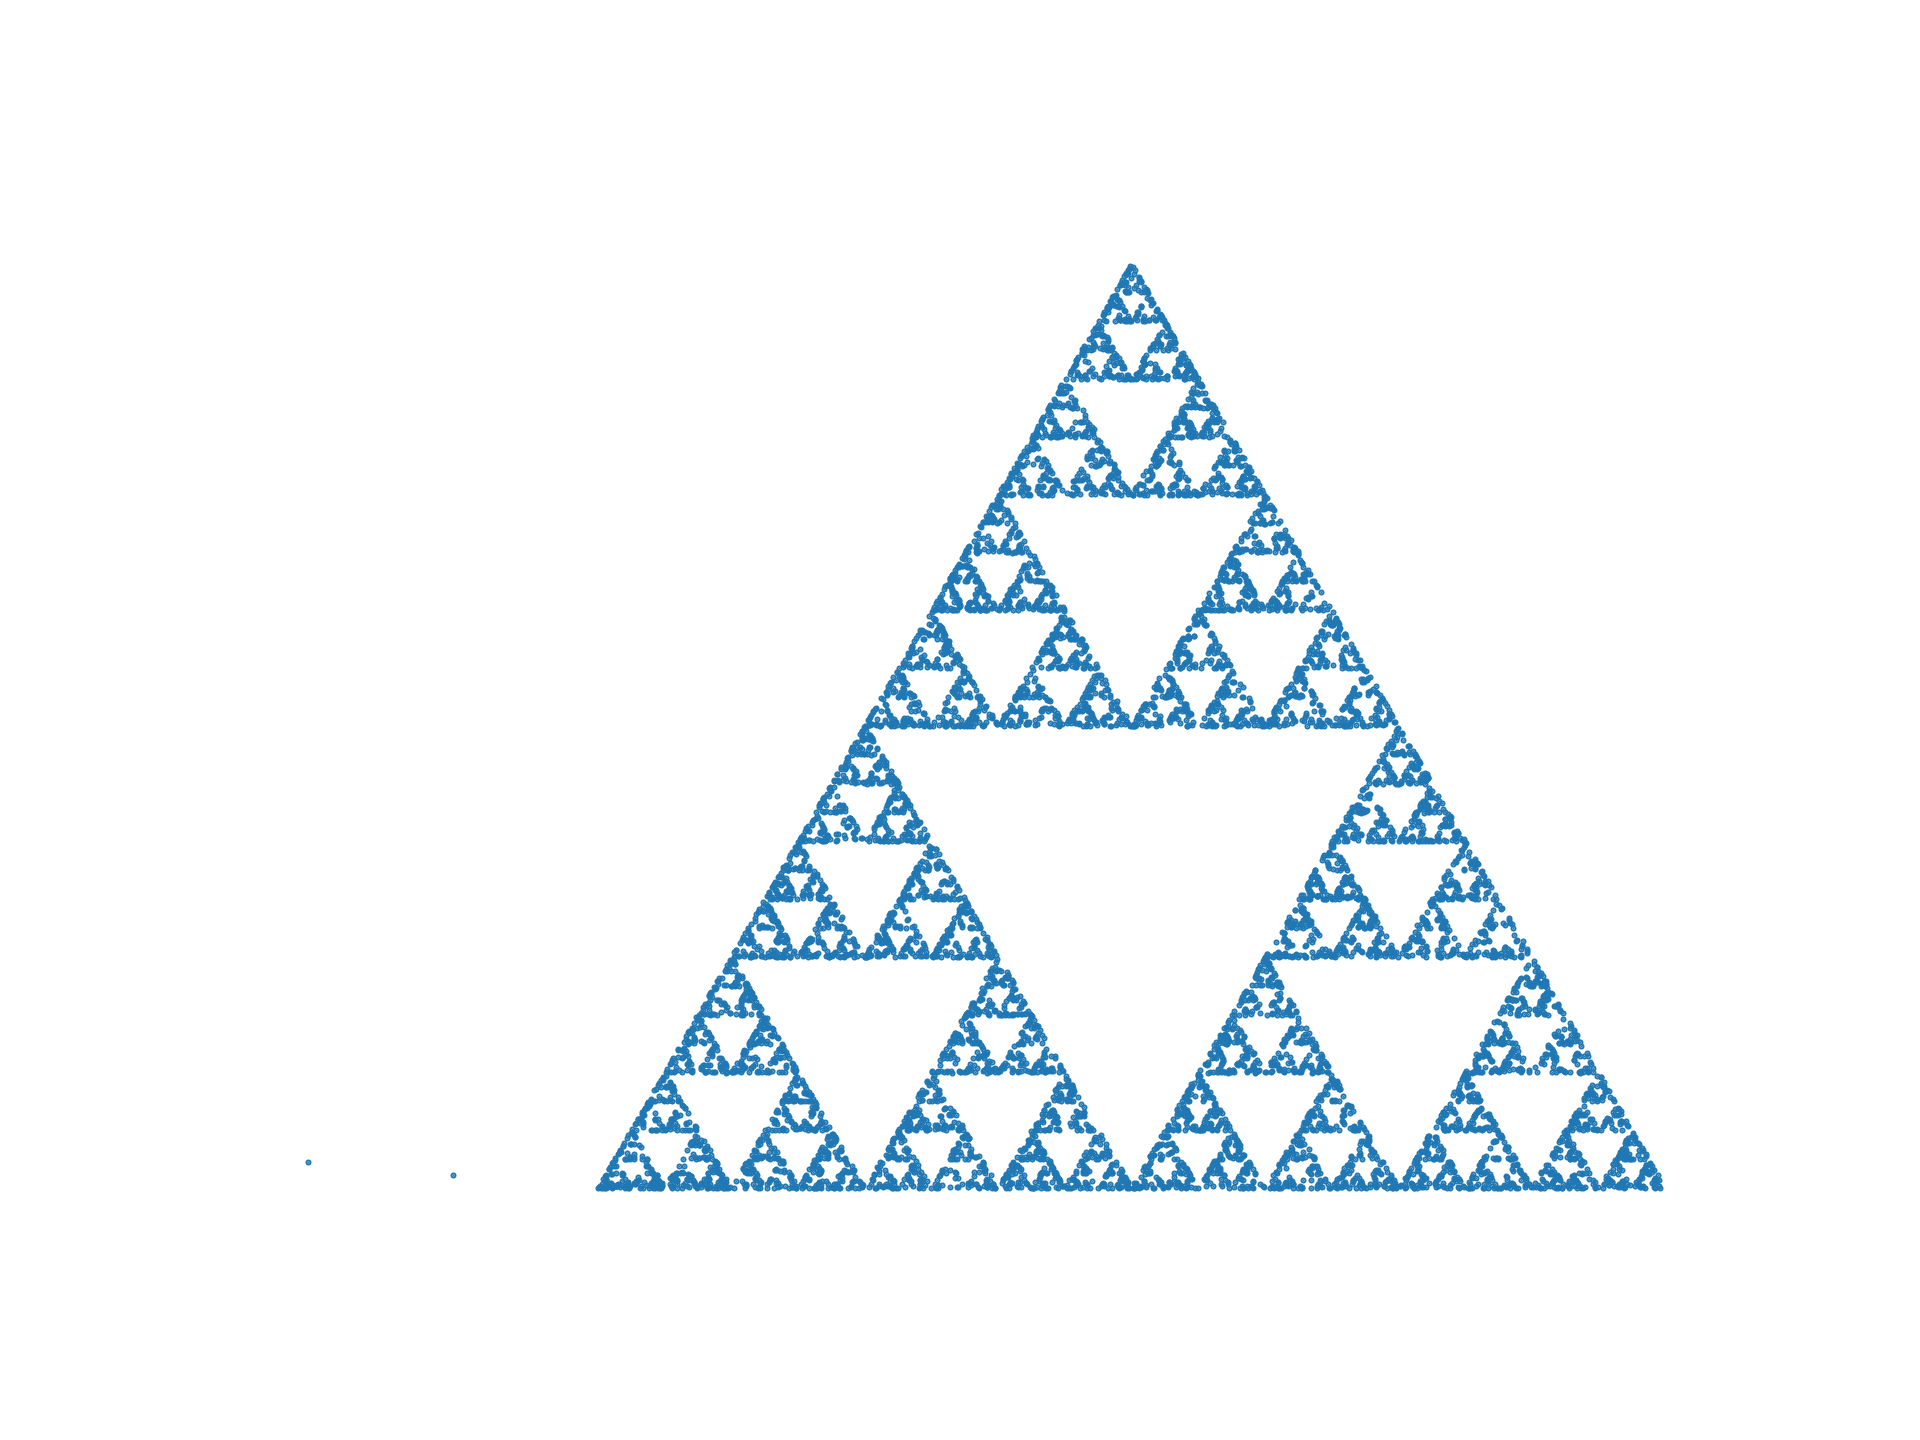
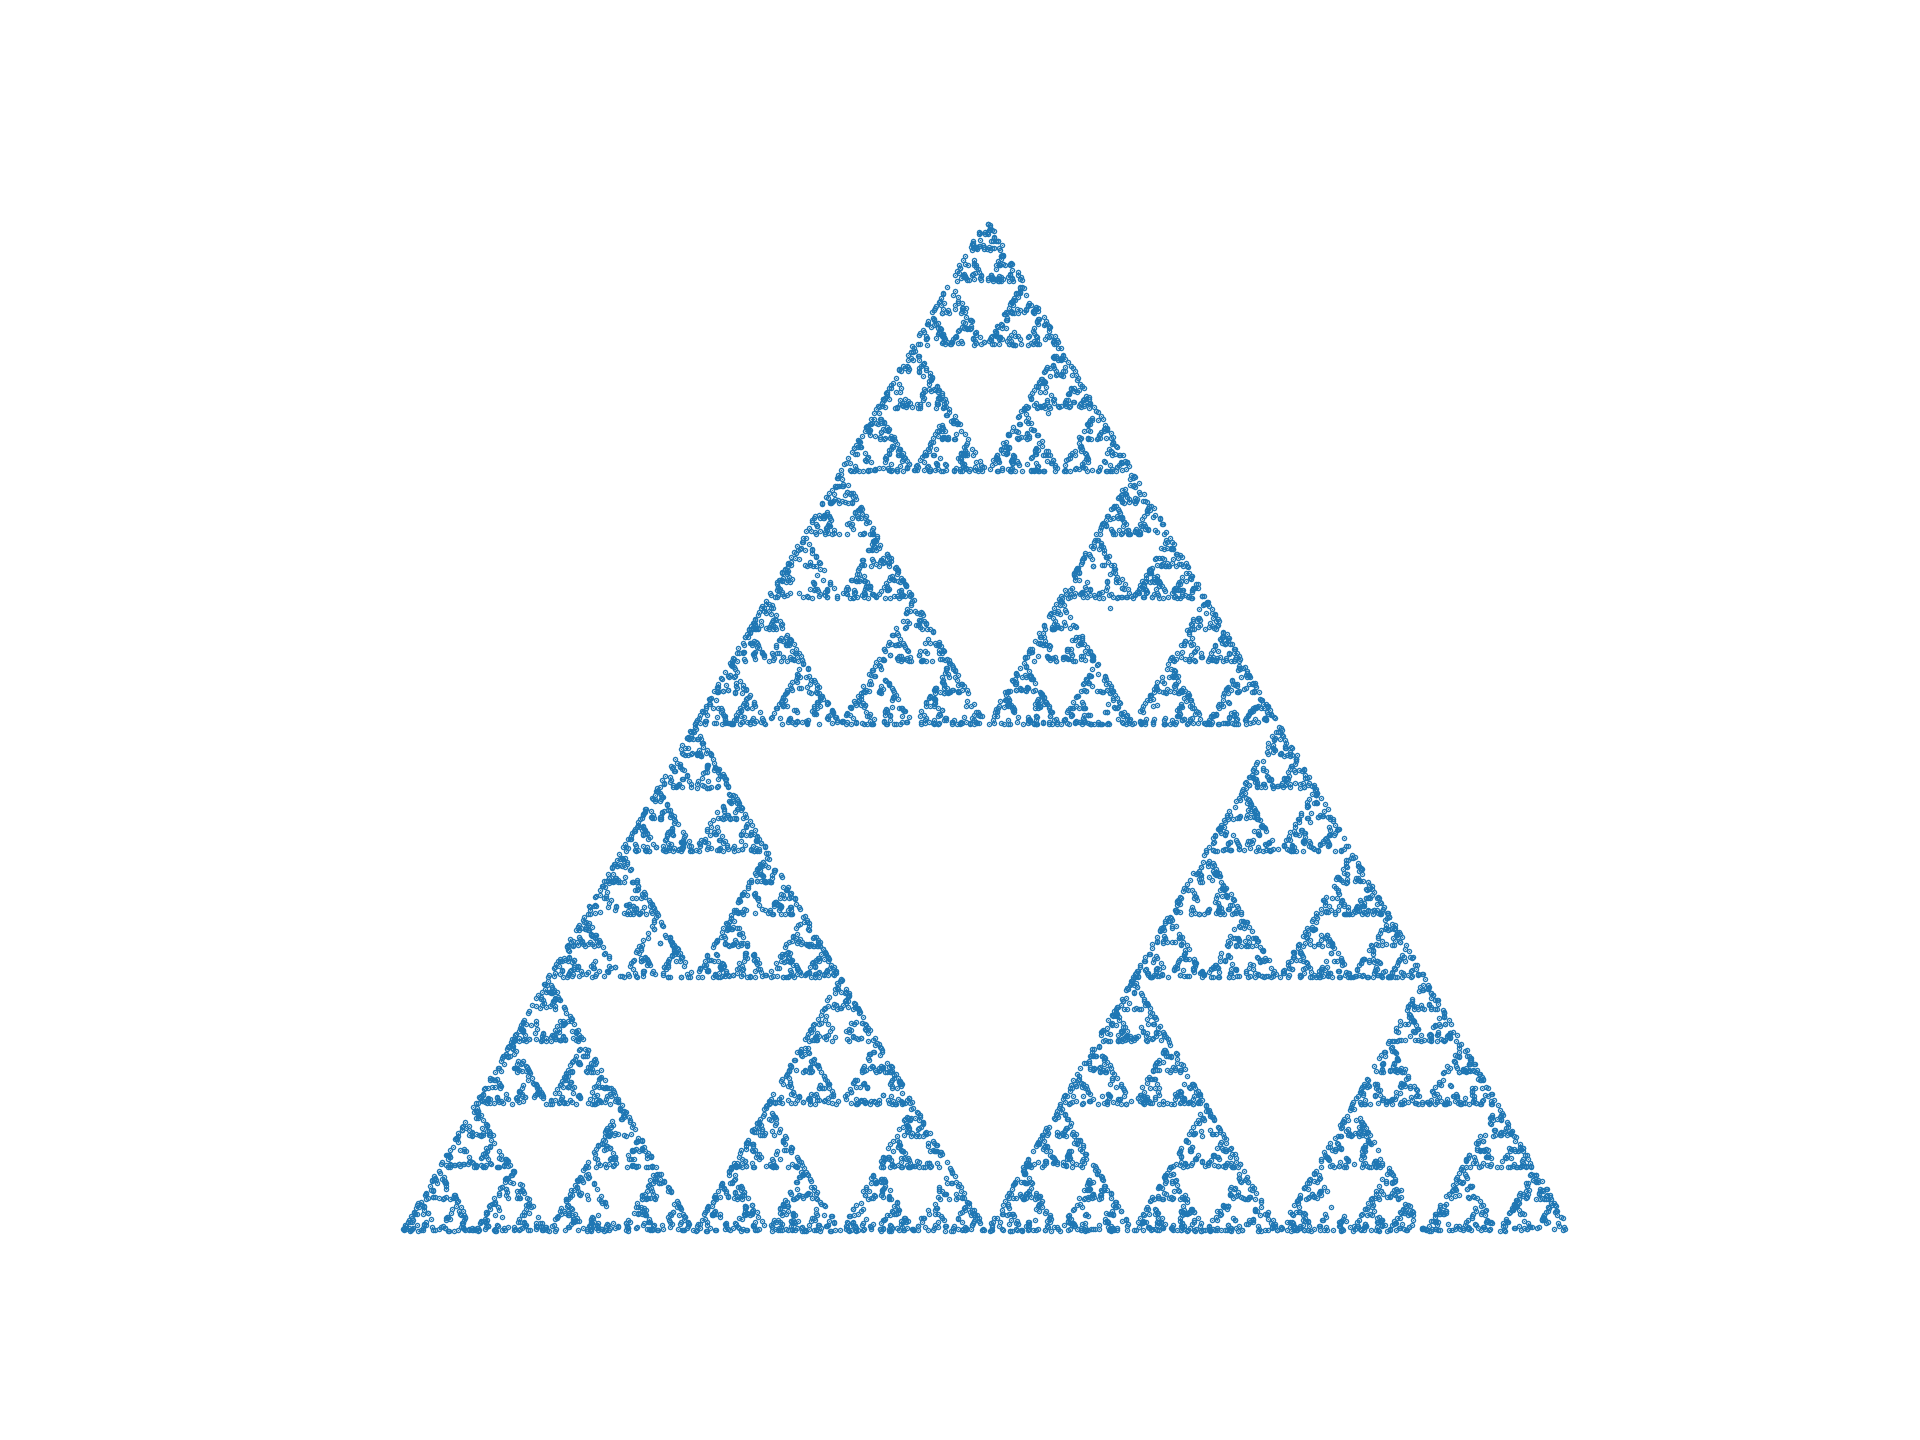
Added working code up to 3b., pluss some non-working snippets of 3c. Corrected chaos_game so it adds the generated files to correct folder.

Changed region(s): [[0.1875, 0.1562, 0.875, 0.875]]

diff --git a/chaos_game.py b/chaos_game.py
@@ -61,7 +61,7 @@ class ChaosGame:
 
 	def show(self, show =1):
 		"""Added a predefined parameter show (with 1 for true, 0 for false) to be able to use the show method in savepng."""
-		plt.scatter(*zip(*self.x), s=0.2)
+		plt.scatter(*zip(*self.x), s=0.1)
 		plt.axis('equal')
 		plt.axis('off')
 		marker='.'
@@ -78,12 +78,13 @@ class ChaosGame:
 			o = outfile + ".png"
 		self.show(0)
 		plt.savefig(o, dpi = 300)
+		plt.close()
 
 
 
 if __name__ == "__main__":
 	c = []
-	n3 =ChaosGame(2, 0.5)
+	n3 =ChaosGame(3, 0.5)
 	n4 =ChaosGame(4, 0.4)
 	n5 =ChaosGame(5, 0.5)
 	n6 =ChaosGame(6, 0.4)
@@ -106,3 +107,28 @@ if __name__ == "__main__":
 	n3.iterate(10000)
 	n3.show()
 	n3.savepng("plot_ngon")
+
+	#2i)
+	nn3 = ChaosGame(3, 0.5)
+	nn4 = ChaosGame(4, 1./3)
+	nn5 = ChaosGame(5, 1./3)
+	nn5_ = ChaosGame(5, 3./8)
+	nn6 = ChaosGame(6, 1./3)
+	
+	nn3.iterate(100000)
+	nn4.iterate(100000)
+	nn5.iterate(100000)
+	nn5_.iterate(100000)
+	nn6.iterate(100000)
+
+	import os
+	os.chdir(r'C:\Users\Eva\IN1910\project3_evasda\figures')
+
+	nn3.savepng("chaos1")
+	nn4.savepng("chaos2")
+	nn5.savepng("chaos3")
+	nn5_.savepng("chaos4")
+	nn6.savepng("chaos5")
+
+	#import os
+	#os.chdir(r'C:\Users\Eva\IN1910\project3_evasda\figures')

diff --git a/fern.py b/fern.py
@@ -1,0 +1,40 @@
+import numpy as np
+import matplotlib.pyplot as plt
+from math import sin, cos, pi
+from numpy import random, linspace
+
+class AffineTransform():
+	def __init__(self, a=0, b=0, c=0, d=0, e=0, f=0):
+		self.a = a
+		self.b = b
+		self.c = c
+		self.d = d
+		self.e = e
+		self.f = f
+
+	def __call__(self, x, y):
+		mult = np.array([[a, b], [c, d]])
+		addit = np.array([e, f])
+		xy = np.array([x, y])
+		transform = mult*xy + addit
+	
+
+
+
+if __name__ == "__main__":
+	f1 = AffineTransform(0,0,0,0.16,0,0)
+	f2 = AffineTransform(0.85,0.04,-0.04,0.85,0,1.60)
+	f3 = AffineTransform(0.20,-0.26,0.23,0.22, 0, 1.60)
+	f4 = AffineTransform(-0.15,0.28,0.26,0.24,0,0.44)
+
+	p_ = []
+	p_ += 0.1
+	p_ += 0.86
+	p_ += 0.93
+	p_ += 1.0
+
+
+	r = np.random.random()
+	for j, p in enumerate(p_):
+		if r < p:
+			return functions[j]
